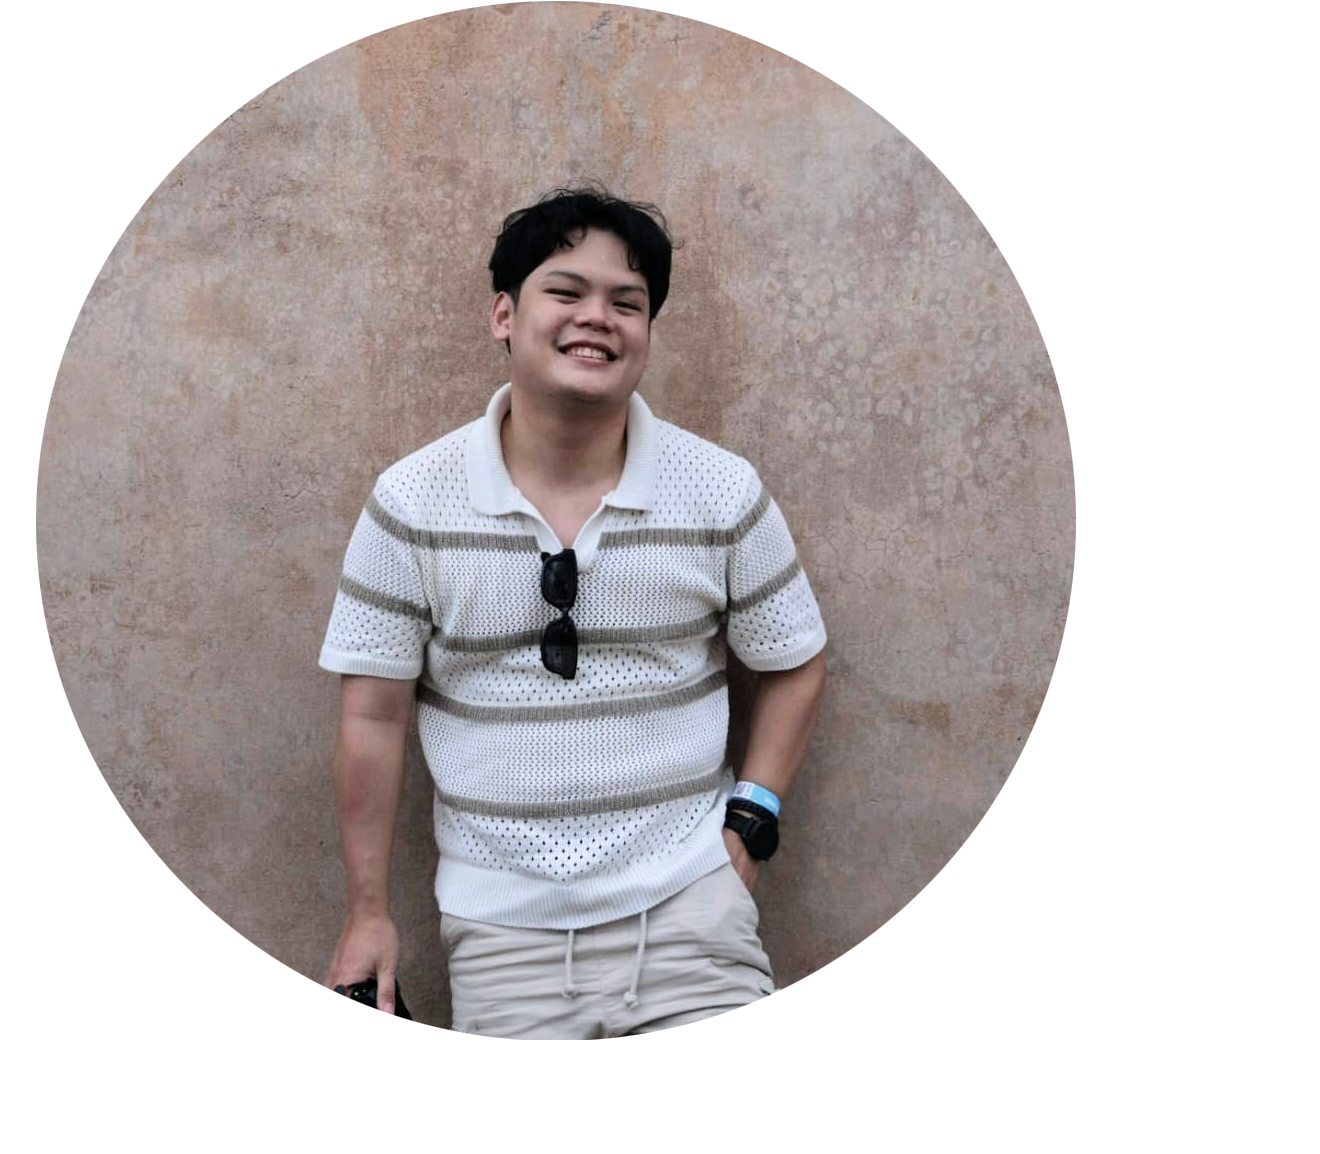
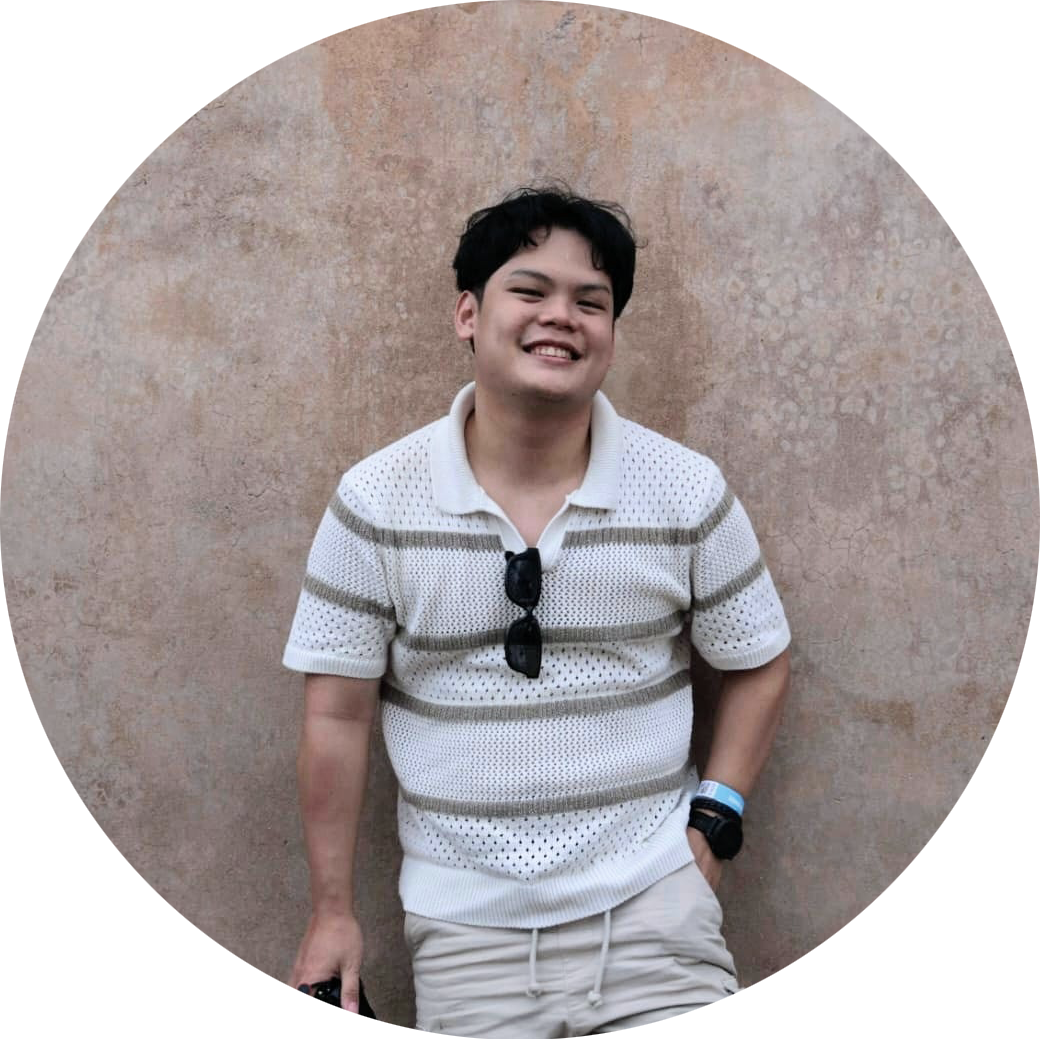
adjust about section

diff --git a/index.html b/index.html
@@ -166,24 +166,40 @@
             </div>
         </div>
         <div id="bio">
-        <h1>about</h1>
-        <img style="float: left;" alt="" width="500px" src="assets/about-picture.png" />
-        <div style="clear: right">
-        <p>
-            Hi, I’m Ricky.
-        </p>
-        <p>
-            An Indonesian born and raised designer / artist working with visuals mainly in computer graphics. 
-        </p>
-        <p>
-            My practice revolves around visual exploration, but more importantly, around understanding the structures behind what we see.
-            I believe meaningful work emerges from deep immersion — like a craftsman devoted to their crafts, combined with the cumulative, non-trivial growth of knowledge that defines science. Research in mathematics, in that sense, is my muse and collaborator.
-            Shaped early on by 3 books : <i>Lumen Naturae</i> by Matilde Marcolli, <i>The Primacy of Doubt</i> by Tim Palmer, <i>Math Art</i> by Stephen Ornes and the online course <i>The Shape of Nature</i> by Satyan L.Devadoss, I aim to pursue research in mathematics with a particular interest in geometry processing, dynamical systems and geometric folding algorithms. 
-        <p>
-            This website is setup as an ongoing collection of experiments, studies, and questions — a record of my journey told through selected projects.
-        </p>
-        </p>
-        </div>  
+            <h1>about</h1>
+            <div id="bio-content">
+                <div id="bio-left">
+                    <img alt="" src="assets/about-picture.png" />
+                </div>
+                <div id="bio-right">
+                    <p>Hi, I'm Ricky.</p>
+                    <p>
+                        An Indonesian born and raised designer / artist working with
+                        visuals mainly in computer graphics.
+                    </p>
+                    <p>
+                        My practice revolves around visual exploration, but more
+                        importantly, around understanding the structures behind what
+                        we see. I believe meaningful work emerges from deep
+                        immersion — like a craftsman devoted to their crafts,
+                        combined with the cumulative, non-trivial growth of
+                        knowledge that defines science. Research in mathematics, in
+                        that sense, is my muse and collaborator. Shaped early on by
+                        3 books : <i>Lumen Naturae</i> by Matilde Marcolli,
+                        <i>The Primacy of Doubt</i> by Tim Palmer,
+                        <i>Math Art</i> by Stephen Ornes and the online course
+                        <i>The Shape of Nature</i> by Satyan L. Devadoss, I aim to
+                        pursue research in mathematics with a particular interest in
+                        geometry processing, dynamical systems and geometric folding
+                        algorithms.
+                    </p>
+                    <p>
+                        This website is setup as an ongoing collection of
+                        experiments, studies, and questions — a record of my journey
+                        told through selected projects.
+                    </p>
+                </div>
+            </div>
         </div>
         <div id="contact">
             <h1>contact</h1>

diff --git a/index.css b/index.css
@@ -475,12 +475,32 @@ video::-webkit-media-controls-mute-button {
     width: 92vw;
     padding: 6vh 4vw;
     font-weight: bold;
+    flex-direction: column;
+    display: flex;
 }
 
 #bio h1 {
     padding: 5px 0px;
     border-bottom: 4px solid rgb(6, 220, 248);
     width: 8%;
+}
+
+#bio-content {
+    display: flex;
+    flex-direction: row;
+}
+
+#bio-left {
+    display: flex;
+    justify-content: center;
+}
+
+#bio-left img {
+    width: 500px;
+}
+
+#bio-right {
+    padding-left: 5vw;
 }
 
 #contact {
@@ -685,6 +705,10 @@ button:focus {
         width: 90%;
     }
 
+    #projects {
+        padding-top: 25vh;
+    }
+
     #projects h1 {
         width: 19%;
     }
@@ -695,6 +719,15 @@ button:focus {
 
     #bio h1 {
         width: 25%;
+    }
+
+    #bio-content {
+        flex-direction: column;
+    }
+
+    #bio-right {
+        padding-left: 0vw;
+        padding-top: 5vh;
     }
 
     #contact h1 {
